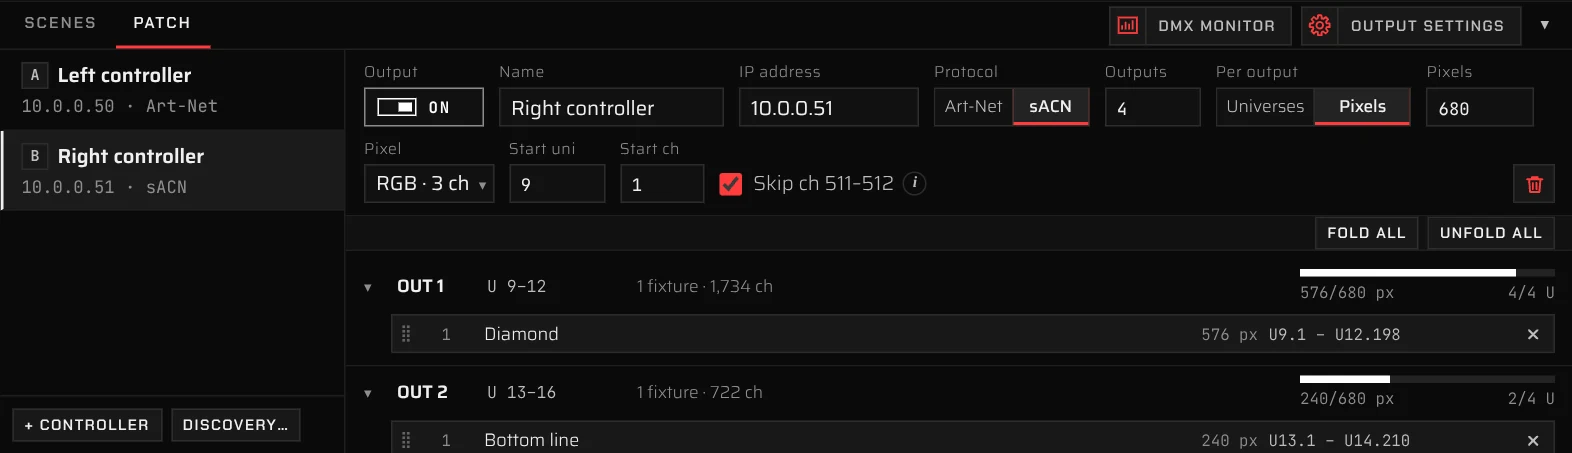
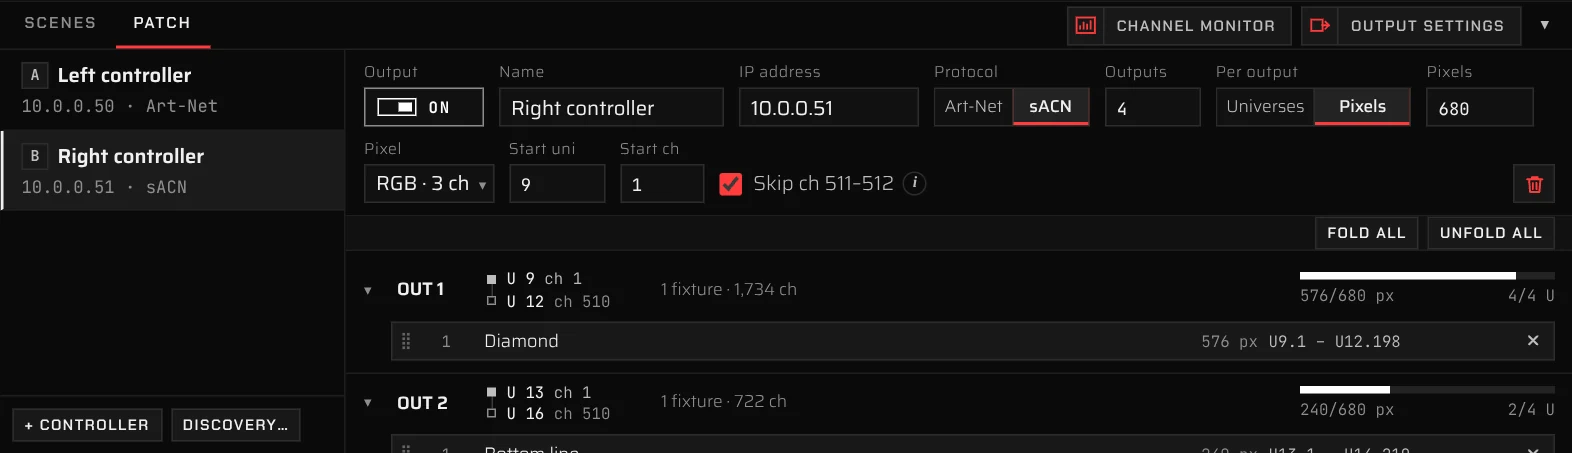
Site: the Patch tab with the Channel monitor and each output's start and end
Claude-Session: https://claude.ai/code/session_01TnTf954bCnfcgD4L8cjhPo

diff --git a/docs/index.html b/docs/index.html
@@ -526,7 +526,7 @@
           <ul class="np-list">
             <li><b>Art-Net and sACN together</b>: each controller has its own protocol</li>
             <li>Outputs by universes or by pixels: give the pixels per output and nouPix works out the universes</li>
-            <li>Automatic addressing, a Discovery window for the devices on the network and a floating DMX monitor</li>
+            <li>Automatic addressing, each output's start and end, a Discovery window for the devices on the network and a Channel monitor in its own window</li>
             <li><b>sACN</b> (E1.31) unicast or multicast, with a priority so a lighting desk can take over</li>
             <li>16-bit fixtures, dimming curves, RGBW, gamma and colour trims</li>
             <li>Highlight lights fixtures on site: Trace, Flood, Color check, Spotlight, Pixel finder</li>
@@ -534,7 +534,7 @@
           </ul>
         </div>
         <figure>
-          <div class="np-media np-cut"><img src="img/feature-patch.webp" width="1572" height="453" loading="lazy" alt="The Patch panel: two controllers, Left on Art-Net and Right on sACN; Right selected, its outputs set by pixels (680 RGB pixels each), with its fixtures, universes and channels"></div>
+          <div class="np-media np-cut"><img src="img/feature-patch.webp" width="1572" height="453" loading="lazy" alt="The Patch panel: two controllers, Left on Art-Net and Right on sACN; Right selected, its outputs set by pixels (680 RGB pixels each), with each output's start and end, its fixtures, universes and channels"></div>
         </figure>
       </article>
 
